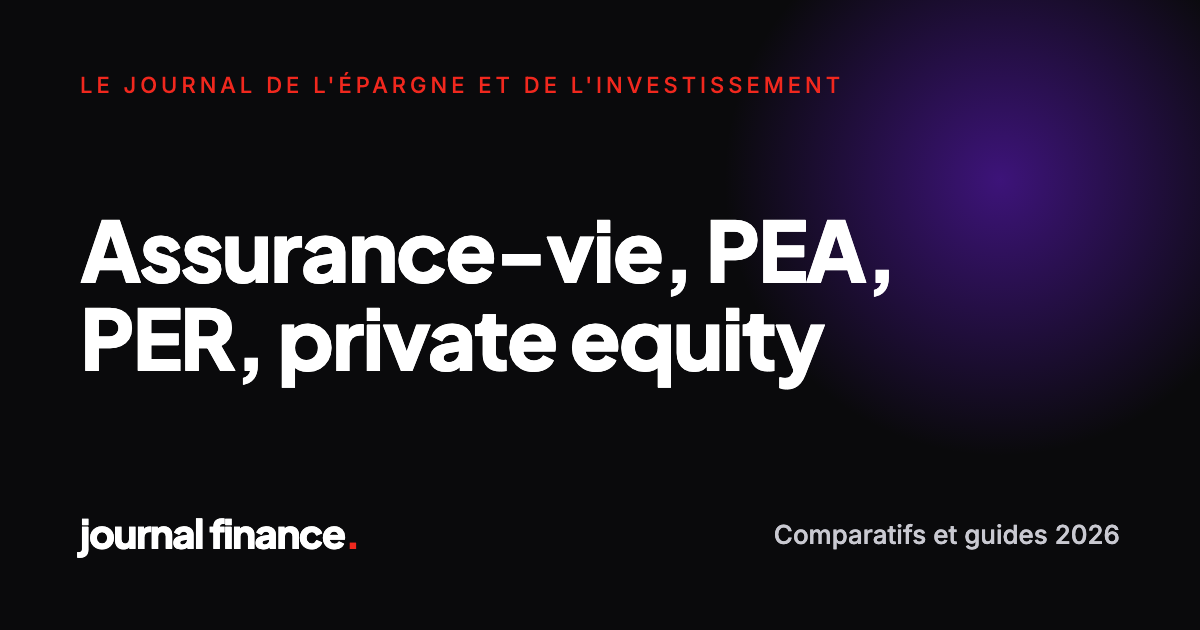
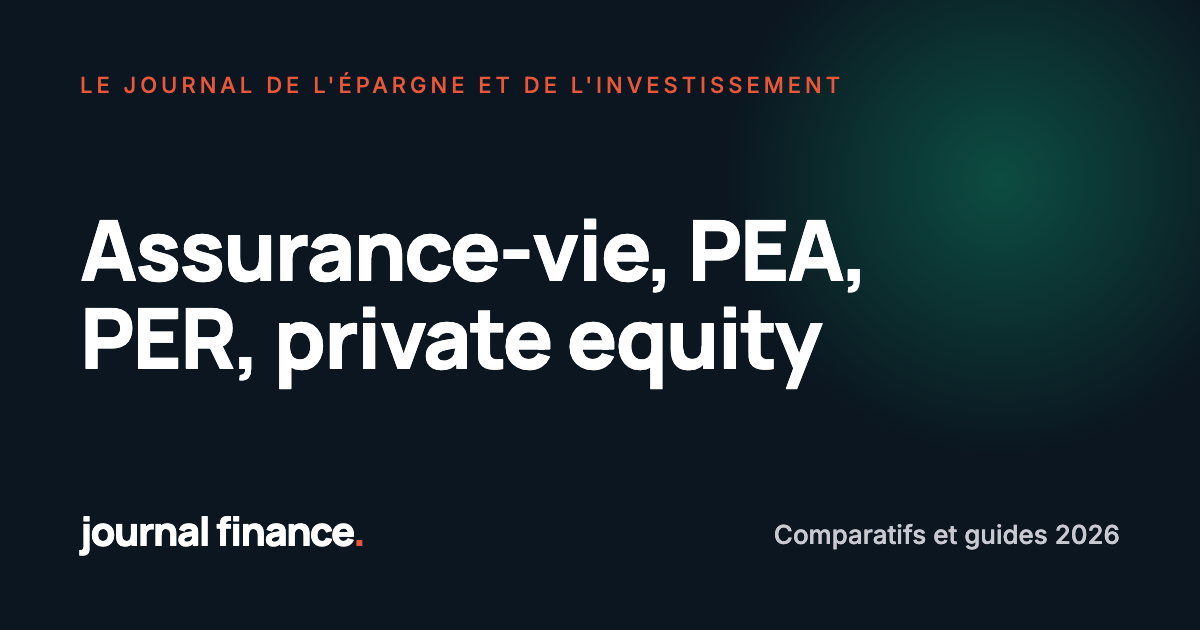
Nouvelle charte et guides en avant sur l'accueil

Changed region(s): [[0.0617, 0.0, 1.0, 0.6333], [0.0617, 0.8143, 0.3083, 0.8746]]

diff --git a/static/css/main.css b/static/css/main.css
@@ -7,19 +7,19 @@
 :root {
   /* Couleurs */
   --bg:        #FFFFFF;
-  --ink:       #0A0A0C;
+  --ink:       #0B1620;
   --body-tx:   #2E2E33;
   --muted:     #6B7280;
   --line:      #E8E8EE;
-  --soft:      #F7F7F9;   /* fonds gris clair (footer, hover) */
-  --cream:     #FDF3E3;   /* bande éditoriale chaude */
-  --dark:      #0B0B0F;   /* hero et cards sombres */
-  --dark-2:    #17171E;
-  --primary:   #7B1FFF;   /* violet boutons */
-  --primary-2: #5E12CC;
-  --red:       #F0281E;   /* badges, liens "en voir plus" */
-  --bluebar-1: #1226AA;   /* topbar */
-  --bluebar-2: #0D1467;
+  --soft:      #F3F6F5;   /* fonds gris clair (footer, hover) */
+  --cream:     #EAF4EF;   /* bande éditoriale chaude */
+  --dark:      #0A1418;   /* hero et cards sombres */
+  --dark-2:    #13222A;
+  --primary:   #0E8F6A;   /* violet boutons */
+  --primary-2: #0A6E51;
+  --red:       #E8573A;   /* badges, liens "en voir plus" */
+  --bluebar-1: #0B2545;   /* topbar */
+  --bluebar-2: #071830;
 
   /* Pills par rubrique (bg pastel / texte) */
   --p-seo-bg: #E3F4EC;          --p-seo-tx: #157A4E;
@@ -31,13 +31,13 @@
   --p-outils-bg: #E0F5FA;       --p-outils-tx: #0E7490;
 
   /* Typo */
-  --heading: "Plus Jakarta Sans", "Archivo", system-ui, sans-serif;
+  --heading: "Manrope", "Archivo", system-ui, sans-serif;
   --sans: "Inter", system-ui, -apple-system, "Segoe UI", Roboto, sans-serif;
 
   /* Mesures */
   --wrap: 1200px;
-  --radius: 14px;
-  --radius-sm: 10px;
+  --radius: 10px;
+  --radius-sm: 6px;
   --shadow: 0 1px 2px rgba(10,10,12,.05), 0 6px 24px rgba(10,10,12,.06);
   --shadow-hover: 0 4px 12px rgba(10,10,12,.08), 0 16px 44px rgba(10,10,12,.12);
   --gap: clamp(18px, 2.6vw, 30px);

diff --git a/layouts/partials/head.html b/layouts/partials/head.html
@@ -51,7 +51,7 @@
 {{/* Polices non bloquantes */}}
 <link rel="preconnect" href="https://fonts.googleapis.com">
 <link rel="preconnect" href="https://fonts.gstatic.com" crossorigin>
-{{ $fonts := "https://fonts.googleapis.com/css2?family=Plus+Jakarta+Sans:wght@500;600;700;800&family=Inter:wght@400;500;600;700&display=swap" }}
+{{ $fonts := "https://fonts.googleapis.com/css2?family=Manrope:wght@500;600;700;800&family=Inter:wght@400;500;600;700&display=swap" }}
 <link rel="preload" as="style" href="{{ $fonts }}">
 <link rel="stylesheet" href="{{ $fonts }}" media="print" onload="this.media='all'">
 <noscript><link rel="stylesheet" href="{{ $fonts }}"></noscript>

diff --git a/layouts/index.html b/layouts/index.html
@@ -1,8 +1,10 @@
 {{ define "main" }}
 {{ $posts := (where site.RegularPages "Section" "blog").ByDate.Reverse }}
 {{ $featured := index $posts 0 }}
-{{ $trends := first 3 (after 1 $posts) }}
-{{ $picks := first 4 (after 4 $posts) }}
+{{ $guides := where $posts "Params.format" "guide" }}
+{{ $comps := where $posts "Params.format" "!=" "guide" }}
+{{ $trends := first 3 (after 1 $comps) }}
+{{ $picks := first 4 $guides }}
 
 <!-- Hero sombre : article vedette + tendances -->
 <section class="hero">

diff --git a/content/fr/blog/private-equity-particulier.md b/content/fr/blog/private-equity-particulier.md
@@ -5,6 +5,7 @@ lastmod: "2026-09-22T09:00:00+02:00"
 description: "Comment investir en private equity en 2026 ? Visez 5 à 15 % de votre patrimoine sur 8 à 10 ans, via l'assurance-vie, le PER, un ELTIF ou une gestion privée."
 categories: ["Private equity"]
 tags: ["private equity", "non coté", "loi industrie verte", "eltif", "gestion privée"]
+format: "guide"
 author: "hugo-vasseur"
 auteurs: ["hugo-vasseur"]
 image: "images/blog/private-equity-particulier.webp"

diff --git a/content/fr/blog/assurance-vie-ou-per.md b/content/fr/blog/assurance-vie-ou-per.md
@@ -5,6 +5,7 @@ lastmod: "2026-09-21T09:00:00+02:00"
 description: "Assurance-vie ou PER en 2026 ? Le PER rend jusqu'à 41 % du versement en impôt, l'assurance-vie reste disponible et exonère 4 600 € de gains par an après 8 ans."
 categories: ["Assurance-vie"]
 tags: ["assurance-vie", "per", "retraite", "fiscalité", "tmi"]
+format: "guide"
 author: "antoine-lefort"
 auteurs: ["antoine-lefort"]
 image: "images/blog/assurance-vie-ou-per.webp"

diff --git a/content/fr/blog/assurance-vie-enfant.md b/content/fr/blog/assurance-vie-enfant.md
@@ -5,6 +5,7 @@ lastmod: "2026-09-25T09:00:00+02:00"
 description: "Quelle assurance-vie ouvrir pour un enfant en 2026 ? Yomoni Kid dès 300 €, abattement de 100 000 € par parent, règles à 18 ans. Notre guide pour bien choisir."
 categories: ["Assurance-vie"]
 tags: ["assurance-vie", "enfant", "donation", "transmission"]
+format: "guide"
 author: "claire-moreau"
 auteurs: ["claire-moreau"]
 image: "images/blog/assurance-vie-enfant.webp"

diff --git a/content/fr/blog/economie-impot-per.md b/content/fr/blog/economie-impot-per.md
@@ -5,6 +5,7 @@ lastmod: "2026-09-23T09:00:00+02:00"
 description: "Combien un PER fait-il économiser d'impôt en 2026 ? Entre 11 % et 45 % du versement selon votre TMI, dans la limite de 10 % de vos revenus. Calculs et pièges."
 categories: ["PER"]
 tags: ["per", "impôt", "défiscalisation", "tmi", "retraite"]
+format: "guide"
 author: "antoine-lefort"
 auteurs: ["antoine-lefort"]
 image: "images/blog/economie-impot-per.webp"

diff --git a/content/fr/blog/transfert-pea.md b/content/fr/blog/transfert-pea.md
@@ -5,6 +5,7 @@ lastmod: "2026-09-24T09:00:00+02:00"
 description: "Transférer son PEA conserve son antériorité fiscale. Frais plafonnés à 150 € par transfert, délais de 2 à 8 semaines, étapes et erreurs à éviter en 2026."
 categories: ["PEA"]
 tags: ["pea", "transfert pea", "fiscalité", "frais"]
+format: "guide"
 author: "sarah-benhamou"
 auteurs: ["sarah-benhamou"]
 image: "images/blog/transfert-pea.webp"
